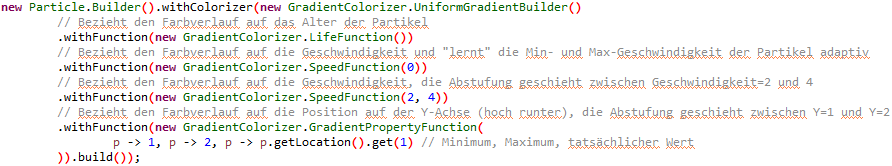
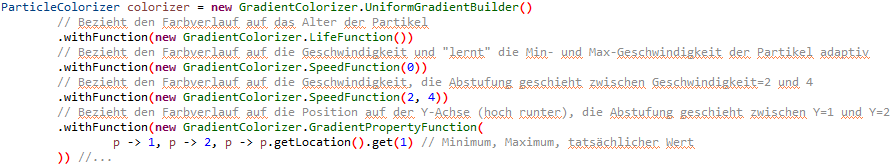
Projekt LN:
- ParticleColorizer wird nun vom Partikelsystem referenziert, damit
braucht nicht jedes einzelne Partikel eine Referenz auf den Colorizer
haben, der zwischen allen Partikeln eines Partikelsystems ohnehin gleich
ist.

Changed region(s): [[0.0, 0.0, 0.6659, 0.0904], [0.0605, 0.9036, 0.1513, 0.994]]

diff --git a/BAI6_WP_CG_Projekt_LN/src/main/java/org/haw/cg/lnielsen/particle/ParticleSystem.java b/BAI6_WP_CG_Projekt_LN/src/main/java/org/haw/cg/lnielsen/particle/ParticleSystem.java
@@ -8,6 +8,8 @@ import java.util.LinkedList;
 import java.util.List;
 import java.util.Objects;
 import java.util.Set;
+import org.haw.cg.lnielsen.particle.color.ParticleColorizer;
+import org.haw.cg.lnielsen.particle.color.impl.NullParticleColorizer;
 import org.haw.cg.lnielsen.particle.physics.Repeller;
 import org.haw.cg.lnielsen.util.Numbers;
 import computergraphics.framework.math.Vector;
@@ -38,14 +40,17 @@ public class ParticleSystem {
 	private Vector _netForce = new Vector(0, 0, 0);
 	private List<Repeller> _repellers;
 	
+	private ParticleColorizer _colorizer;
+	
 	public ParticleSystem(Particle.Builder builder, int maxParticles, int spawnPerSecond, boolean spawnCapped) {
 		_builder = Objects.requireNonNull(builder);
 		_spawnPerSecond = Numbers.require(spawnPerSecond).greaterThanOrEqual(0, "Die Anzahl der pro Sekunde zu spawnenden Partikel muss positiv sein!");
-        _maxParticles = Numbers.require(maxParticles).greaterThanOrEqual(0, "Die maximale Anzahl der Partikel muss positiv sein!");
-        _lifeParticles = new HashSet<>(_maxParticles);
-        _deadParticles = new HashSet<>(_maxParticles);
-        _spawnCapped = spawnCapped;
-        _repellers = new LinkedList<>();
+		_maxParticles = Numbers.require(maxParticles).greaterThanOrEqual(0, "Die maximale Anzahl der Partikel muss positiv sein!");
+		_lifeParticles = new HashSet<>(_maxParticles);
+		_deadParticles = new HashSet<>(_maxParticles);
+		_spawnCapped = spawnCapped;
+		_repellers = new LinkedList<>();
+		_colorizer = new NullParticleColorizer();
 	}
 	
 	/**
@@ -88,25 +93,25 @@ public class ParticleSystem {
 	 */
 	private void spawnParticles(long deltaMS) {
 		if(!_spawnCapped || _spawnCount < _maxParticles) {
-    		Iterator<Particle> dead = _deadParticles.iterator();
-    		// TODO: Spawnmechanismus überarbeiten, sodass nicht mehr als _spawnPerSecond Partikel pro Sekunde gespawnt werden können
-    		double particlesToSpawn = deltaMS/1000.0 * _spawnPerSecond;
-    		for(int i=0; i<particlesToSpawn; i++) {
-    			if(dead.hasNext()) {
-    				// Wenn wir noch Partikel haben, die wir wiederverwenden können, dann tun wir das
-    				Particle p = dead.next();
-    				_builder.initialize(p);
-    				dead.remove();
-    				_lifeParticles.add(p);
-    			} else if(_lifeParticles.size() + _deadParticles.size() < _maxParticles) {
-    				// Wenn die Maximalzahl an Partikeln noch nicht erreich ist, erzeugen wir neue Partikel
-    				_lifeParticles.add(_builder.build());
-    			} else {
-    				// Ansonsten erzeugen wir keine weiteren Partikel mehr
-    				break;
-    			}
-    			_spawnCount++;
-    		}
+			Iterator<Particle> dead = _deadParticles.iterator();
+			// TODO: Spawnmechanismus überarbeiten, sodass nicht mehr als _spawnPerSecond Partikel pro Sekunde gespawnt werden können
+			double particlesToSpawn = deltaMS/1000.0 * _spawnPerSecond;
+			for(int i=0; i<particlesToSpawn; i++) {
+				if(dead.hasNext()) {
+					// Wenn wir noch Partikel haben, die wir wiederverwenden können, dann tun wir das
+					Particle p = dead.next();
+					_builder.initialize(p);
+					dead.remove();
+					_lifeParticles.add(p);
+				} else if(_lifeParticles.size() + _deadParticles.size() < _maxParticles) {
+					// Wenn die Maximalzahl an Partikeln noch nicht erreich ist, erzeugen wir neue Partikel
+					_lifeParticles.add(_builder.build());
+				} else {
+					// Ansonsten erzeugen wir keine weiteren Partikel mehr
+					break;
+				}
+				_spawnCount++;
+			}
 		}
 	}
 	
@@ -123,6 +128,7 @@ public class ParticleSystem {
 			p.applyForce(_netForce);
 			p.applyGravity(_gravity);
 			p.update(deltaMS);
+			_colorizer.updateColor(p);
 			if(p.isDead()) {
 				life.remove();
 				_deadParticles.add(p);
@@ -218,6 +224,10 @@ public class ParticleSystem {
 	
 	public void removeRepeller(Repeller repeller) {
 		_repellers.remove(repeller);
+	}
+	
+	public void setParticleColorizer(ParticleColorizer colorizer) {
+		_colorizer = Objects.requireNonNull(colorizer);
 	}
 	
 	/**

diff --git a/BAI6_WP_CG_Projekt_LN/src/main/java/org/haw/cg/lnielsen/particle/demo/ColorizerDemoSimple.java b/BAI6_WP_CG_Projekt_LN/src/main/java/org/haw/cg/lnielsen/particle/demo/ColorizerDemoSimple.java
@@ -3,6 +3,7 @@ package org.haw.cg.lnielsen.particle.demo;
 import java.util.concurrent.TimeUnit;
 import org.haw.cg.lnielsen.particle.Particle;
 import org.haw.cg.lnielsen.particle.ParticleSystem;
+import org.haw.cg.lnielsen.particle.color.ParticleColorizer;
 import org.haw.cg.lnielsen.particle.color.impl.GradientColorizer;
 import org.haw.cg.lnielsen.particle.scenegraph.ParticleSystemShowcaseScene;
 import computergraphics.framework.math.Vector;
@@ -12,30 +13,32 @@ public class ColorizerDemoSimple {
 		Particle.Builder builder3 = new Particle.Builder()
 				.withStartLife(TimeUnit.SECONDS.toMillis(1))
 				.withLocation(new Vector(0, 0, 0))
-				.withVelocity(new Vector(0, 4, 0))
-				.withColorizer(new GradientColorizer.UniformGradientBuilder()
-						// Bezieht den Farbverlauf auf das Alter der Partikel 
-//						.withFunction(new GradientColorizer.LifeFunction())
-						// Bezieht den Farbverlauf auf die Geschwindigkeit und "lernt" die Min- und Max-Geschwindigkeit der Partikel adaptiv
-//						.withFunction(new GradientColorizer.SpeedFunction(0))
-						// Bezieht den Farbverlauf auf die Geschwindigkeit, die Abstufung geschieht zwischen Geschwindigkeit=2 und 4
-//						.withFunction(new GradientColorizer.SpeedFunction(2, 4))
-						// Bezieht den Farbverlauf auf die Position auf der Y-Achse (hoch runter), die Abstufung geschieht zwischen Y=1 und Y=2
-						.withFunction(new GradientColorizer.GradientPropertyFunction(
-								p -> 1,                     // Minimum
-								p -> 2,                     // Maximum
-								p -> p.getLocation().get(1) // tatsächlicher Wert
-						))
-						.appendColor(new Vector(0, 0, 1))
-						.appendColor(new Vector(0, 1, 1))
-						.appendColor(new Vector(0, 1, 0))
-						.appendColor(new Vector(1, 1, 0))
-						.appendColor(new Vector(1, 0, 0))
-						.withFadeOut(false)
-						.build());
+				.withVelocity(new Vector(0, 4, 0));
+		
+		ParticleColorizer colorizer = new GradientColorizer.UniformGradientBuilder()
+				// Bezieht den Farbverlauf auf das Alter der Partikel 
+//				.withFunction(new GradientColorizer.LifeFunction())
+				// Bezieht den Farbverlauf auf die Geschwindigkeit und "lernt" die Min- und Max-Geschwindigkeit der Partikel adaptiv
+//				.withFunction(new GradientColorizer.SpeedFunction(0))
+				// Bezieht den Farbverlauf auf die Geschwindigkeit, die Abstufung geschieht zwischen Geschwindigkeit=2 und 4
+//				.withFunction(new GradientColorizer.SpeedFunction(2, 4))
+				// Bezieht den Farbverlauf auf die Position auf der Y-Achse (hoch runter), die Abstufung geschieht zwischen Y=1 und Y=2
+				.withFunction(new GradientColorizer.GradientPropertyFunction(
+						p -> 1,                     // Minimum
+						p -> 2,                     // Maximum
+						p -> p.getLocation().get(1) // tatsächlicher Wert
+				))
+				.appendColor(new Vector(0, 0, 1))
+				.appendColor(new Vector(0, 1, 1))
+				.appendColor(new Vector(0, 1, 0))
+				.appendColor(new Vector(1, 1, 0))
+				.appendColor(new Vector(1, 0, 0))
+				.withFadeOut(false)
+				.build();
 		
 		ParticleSystem system3 = new ParticleSystem(builder3, 10, 10, false);
 		system3.applyForce(new Vector(0, -4, 0));
+		system3.setParticleColorizer(colorizer);
 		
 		new ParticleSystemShowcaseScene(system3, 60);
 	}

diff --git a/BAI6_WP_CG_Projekt_LN/src/main/java/org/haw/cg/lnielsen/particle/demo/ColorizerDemo.java b/BAI6_WP_CG_Projekt_LN/src/main/java/org/haw/cg/lnielsen/particle/demo/ColorizerDemo.java
@@ -14,37 +14,37 @@ public class ColorizerDemo {
 		Particle.Builder builder1 = new Particle.Builder()
 				.withStartLife(TimeUnit.SECONDS.toMillis(2))
 				.withLocation(new Vector(-1, 0, 0))
-				.withVelocity(new Vector(-0.1, 0, -0.1), new Vector(0.1, 0, 0.1))
-				.withColorizer(new SpeedVisualizer(0));
+				.withVelocity(new Vector(-0.1, 0, -0.1), new Vector(0.1, 0, 0.1));
 		Particle.Builder builder2 = new Particle.Builder()
 				.withStartLife(TimeUnit.SECONDS.toMillis(2))
 				.withLocation(new Vector(1, 0, 0))
-				.withVelocity(new Vector(-0.1, 0, -0.1), new Vector(0.1, 0, 0.1))
-				.withColorizer(new SpeedVisualizer(0, 1.5));
+				.withVelocity(new Vector(-0.1, 0, -0.1), new Vector(0.1, 0, 0.1));
 		Particle.Builder builder3 = new Particle.Builder()
 				.withStartLife(TimeUnit.SECONDS.toMillis(2))
 				.withLocation(new Vector(0, 0, 0))
-				.withVelocity(new Vector(-0.1, -0.1, -0.1), new Vector(0.1, 0.1, 0.1))
-				.withColorizer(ParticleColorizerBuilder.uniformMultiColorGradient()
-						.appendColor(new Vector(1, 0, 0))
-						.appendColor(new Vector(1, 1, 0))
-						.appendColor(new Vector(0, 1, 0))
-						.appendColor(new Vector(0, 1, 1))
-						.appendColor(new Vector(0, 0, 1))
-						.appendColor(new Vector(1, 0, 1))
-						.build());
+				.withVelocity(new Vector(-0.1, -0.1, -0.1), new Vector(0.1, 0.1, 0.1));
 		
 		ParticleSystem system1 = new ParticleSystem(builder1, 5000, 5000, false);
 		system1.applyForce(new Vector(0, 1, 0));
 		system1.addRepeller(new Repeller(new Vector(-1, 1.5, 0), 0.5, 20));
+		system1.setParticleColorizer(new SpeedVisualizer(0));
 		
 		ParticleSystem system2 = new ParticleSystem(builder2, 5000, 5000, false);
 		system2.applyForce(new Vector(0, 1, 0));
 		system2.addRepeller(new Repeller(new Vector(1, 1.5, 0), 0.5, 20));
+		system2.setParticleColorizer(new SpeedVisualizer(0, 1.5));
 		
 		ParticleSystem system3 = new ParticleSystem(builder3, 5000, 5000, false);
 		system3.applyForce(new Vector(0, -1, 0));
 //		system3.addRepeller(new Repeller(new Vector(0, -1.5, 0), 0.5, 20));
+		system3.setParticleColorizer(ParticleColorizerBuilder.uniformMultiColorGradient()
+				.appendColor(new Vector(1, 0, 0))
+				.appendColor(new Vector(1, 1, 0))
+				.appendColor(new Vector(0, 1, 0))
+				.appendColor(new Vector(0, 1, 1))
+				.appendColor(new Vector(0, 0, 1))
+				.appendColor(new Vector(1, 0, 1))
+				.build());
 		
 		ParticleSystemManagerShowcaseScene scene = new ParticleSystemManagerShowcaseScene(60);
 		scene.addParticleSystem(system1);

diff --git a/BAI6_WP_CG_Projekt_LN/src/main/java/org/haw/cg/lnielsen/particle/Particle.java b/BAI6_WP_CG_Projekt_LN/src/main/java/org/haw/cg/lnielsen/particle/Particle.java
@@ -1,8 +1,5 @@
 package org.haw.cg.lnielsen.particle;
 
-import org.haw.cg.lnielsen.particle.color.ParticleColorizerBuilder;
-import org.haw.cg.lnielsen.particle.color.ParticleColorizer;
-import org.haw.cg.lnielsen.particle.color.impl.NullParticleColorizer;
 import org.haw.cg.lnielsen.util.Numbers;
 import computergraphics.framework.math.Vector;
 import computergraphics.framework.rendering.CGUtils;
@@ -18,7 +15,6 @@ public class Particle {
 	private double _mass;
 	
 	private Vector _color        = new Vector(0,0,0,1);
-	private ParticleColorizer _colorizer = Builder.NULL_COLORIZER;
 	
 	private long _startLife;
 	private long _life;
@@ -36,8 +32,6 @@ public class Particle {
 		_velocity.addSelf(_acceleration.multiply(updateSeconds));
 		_location.addSelf(_velocity.multiply(updateSeconds));
 		_acceleration.multiplySelf(0);
-		
-		_colorizer.updateColor(this);
 	}
 	
 	/**
@@ -133,8 +127,6 @@ public class Particle {
 	 * werden um ihn so weiterzuverwenden.
 	 */
 	public static class Builder {
-		private static final ParticleColorizer NULL_COLORIZER = new NullParticleColorizer();
-		
 		private Vector _locationFrom     = new Vector(0,0,0);
 		private Vector _locationTo       = new Vector(0,0,0);
 		private Vector _velocityFrom     = new Vector(0,0,0);
@@ -146,7 +138,6 @@ public class Particle {
 		private double _massTo           = 1;
 		
 		private Vector _color            = new Vector(0,0,0,1);
-		private ParticleColorizer _colorizer = NULL_COLORIZER;
 		
 		private long _startLifeFrom;
 		private long _startLifeTo;
@@ -185,17 +176,6 @@ public class Particle {
 		
 		public Builder withColor(Vector color) {
 			_color = CGUtils.checkColorVector(color);
-			return this;
-		}
-		
-		/**
-		 * Legt einen {@link ParticleColorizer} fest, der die Farbe von Partikeln über ihren Lebenszyklus
-		 * kontrolliert. Über {@link ParticleColorizerBuilder} können gängige Builder benutzt werden.
-		 * @param colorizer Der {@link ParticleColorizer}
-		 * @return Der Builder selbst um weitere Konfigurationen anzuhängen
-		 */
-		public Builder withColorizer(ParticleColorizer colorizer) {
-			_colorizer = colorizer==null ? NULL_COLORIZER : colorizer;
 			return this;
 		}
 		
@@ -243,7 +223,6 @@ public class Particle {
 			particle.setAcceleration(Vector.random(_accelerationFrom, _accelerationTo));
 			particle.setMass(Math.random() * (_massTo - _massFrom) + _massTo);
 			particle.setColor(_color);
-			particle._colorizer = _colorizer;
 		}
 	}
 }

diff --git a/BAI6_WP_CG_Projekt_LN/src/main/java/org/haw/cg/lnielsen/particle/scenegraph/ParticleSystemManagerShowcaseScene.java b/BAI6_WP_CG_Projekt_LN/src/main/java/org/haw/cg/lnielsen/particle/scenegraph/ParticleSystemManagerShowcaseScene.java
@@ -127,12 +127,7 @@ public class ParticleSystemManagerShowcaseScene extends Scene {
 	private static enum ParticlePreset {
 		EXPLOSION(10000, 20000, true, new Particle.Builder()
 				.withStartLife(TimeUnit.SECONDS.toMillis(2))
-				.withVelocity(new Vector(-1, 0, -1), new Vector(1, 1, 1))
-				.withColorizer(ParticleColorizerBuilder.twoColorGradient()
-						.withStartColor(new Vector(1, 0.1, 0))
-						.withEndColor(new Vector(1, 0.9, 0))
-						.withFadeOut(true)
-						.build()));
+				.withVelocity(new Vector(-1, 0, -1), new Vector(1, 1, 1)));
 		
 		private Particle.Builder _builder;
 		private int _maxParticles;
@@ -149,6 +144,11 @@ public class ParticleSystemManagerShowcaseScene extends Scene {
 		public ParticleSystem create() {
 			ParticleSystem system = new ParticleSystem(_builder, _maxParticles, _spawnPerSecond, _spawnCapped);
 			system.applyGravity(GRAVITY);
+			system.setParticleColorizer(ParticleColorizerBuilder.twoColorGradient()
+						.withStartColor(new Vector(1, 0.1, 0))
+						.withEndColor(new Vector(1, 0.9, 0))
+						.withFadeOut(true)
+						.build());
 			return system;
 		}
 		

diff --git a/BAI6_WP_CG_Projekt_LN/src/main/java/org/haw/cg/lnielsen/particle/demo/ParticleDemo.java b/BAI6_WP_CG_Projekt_LN/src/main/java/org/haw/cg/lnielsen/particle/demo/ParticleDemo.java
@@ -13,14 +13,14 @@ public class ParticleDemo {
 		Particle.Builder builder = new Particle.Builder()
 				.withStartLife(TimeUnit.SECONDS.toMillis(2))
 				.withLocation(new Vector(-1, -1, 0), new Vector(1, -1, 0))
-				.withVelocity(new Vector(-0.5, 0.5, -0.5), new Vector(0.5, 1, 0.5))
-				.withColorizer(ParticleColorizerBuilder.twoColorGradient()
+				.withVelocity(new Vector(-0.5, 0.5, -0.5), new Vector(0.5, 1, 0.5));
+		
+		ParticleSystem system = new ParticleSystem(builder, 10000, 5000, false);
+		system.setParticleColorizer(ParticleColorizerBuilder.twoColorGradient()
 						.withStartColor(new Vector(1, 0.1, 0, 1))
 						.withEndColor(new Vector(1, 0.9, 0, 0.1))
 						.withFadeOut(true)
 						.build());
-		
-		ParticleSystem system = new ParticleSystem(builder, 10000, 5000, false);
 		
 		ParticleSystem.DEBUG = true;
 		ParticleSystemShowcaseScene scene = new ParticleSystemShowcaseScene(system, 60);

diff --git a/BAI6_WP_CG_Projekt_LN/src/main/java/org/haw/cg/lnielsen/particle/physics/Repeller.java b/BAI6_WP_CG_Projekt_LN/src/main/java/org/haw/cg/lnielsen/particle/physics/Repeller.java
@@ -26,10 +26,10 @@ public class Repeller {
 		double distance = direction.getNorm();
 		if(distance <= _range) {
 			distance = Math.max(1, Math.min(distance, 100));
-    		direction.normalize();
-    		double force = -1 * _power / (distance * distance);
-    		direction.multiplySelf(force);
-    		return direction;
+			direction.normalize();
+			double force = -1 * _power / (distance * distance);
+			direction.multiplySelf(force);
+			return direction;
 		} else {
 			return new Vector(0, 0, 0);
 		}

diff --git a/BAI6_WP_CG_Projekt_LN/src/main/java/org/haw/cg/lnielsen/particle/scenegraph/nodes/primitives/ParticleSystemNode.java b/BAI6_WP_CG_Projekt_LN/src/main/java/org/haw/cg/lnielsen/particle/scenegraph/nodes/primitives/ParticleSystemNode.java
@@ -48,9 +48,9 @@ public class ParticleSystemNode extends LeafNode {
 			if(isDoUpdates()) {
 				_particleSystem.update();
 			}
-    		_particleSystemVBO = isBackToFront()
-    				? _factory.createBackToFrontSortedParticleSystemVBO(_viewpoint)
-    				: _factory.createParticleSystemVBO();
+			_particleSystemVBO = isBackToFront()
+					? _factory.createBackToFrontSortedParticleSystemVBO(_viewpoint)
+					: _factory.createParticleSystemVBO();
 		}
 	}
 	

diff --git a/BAI6_WP_CG_Projekt_LN/src/main/java/org/haw/cg/lnielsen/particle/color/impl/SpeedVisualizer.java b/BAI6_WP_CG_Projekt_LN/src/main/java/org/haw/cg/lnielsen/particle/color/impl/SpeedVisualizer.java
@@ -96,7 +96,7 @@ public class SpeedVisualizer extends AbstractParticleColorizer implements Partic
 			_fadeOut = fadeOut;
 			return this;
 		}
-
+		
 		public SpeedVisualizer build() {
 			SpeedVisualizer changer = new SpeedVisualizer(_speedMin, _speedMax);
 			changer._colorMin = _colorMin;
